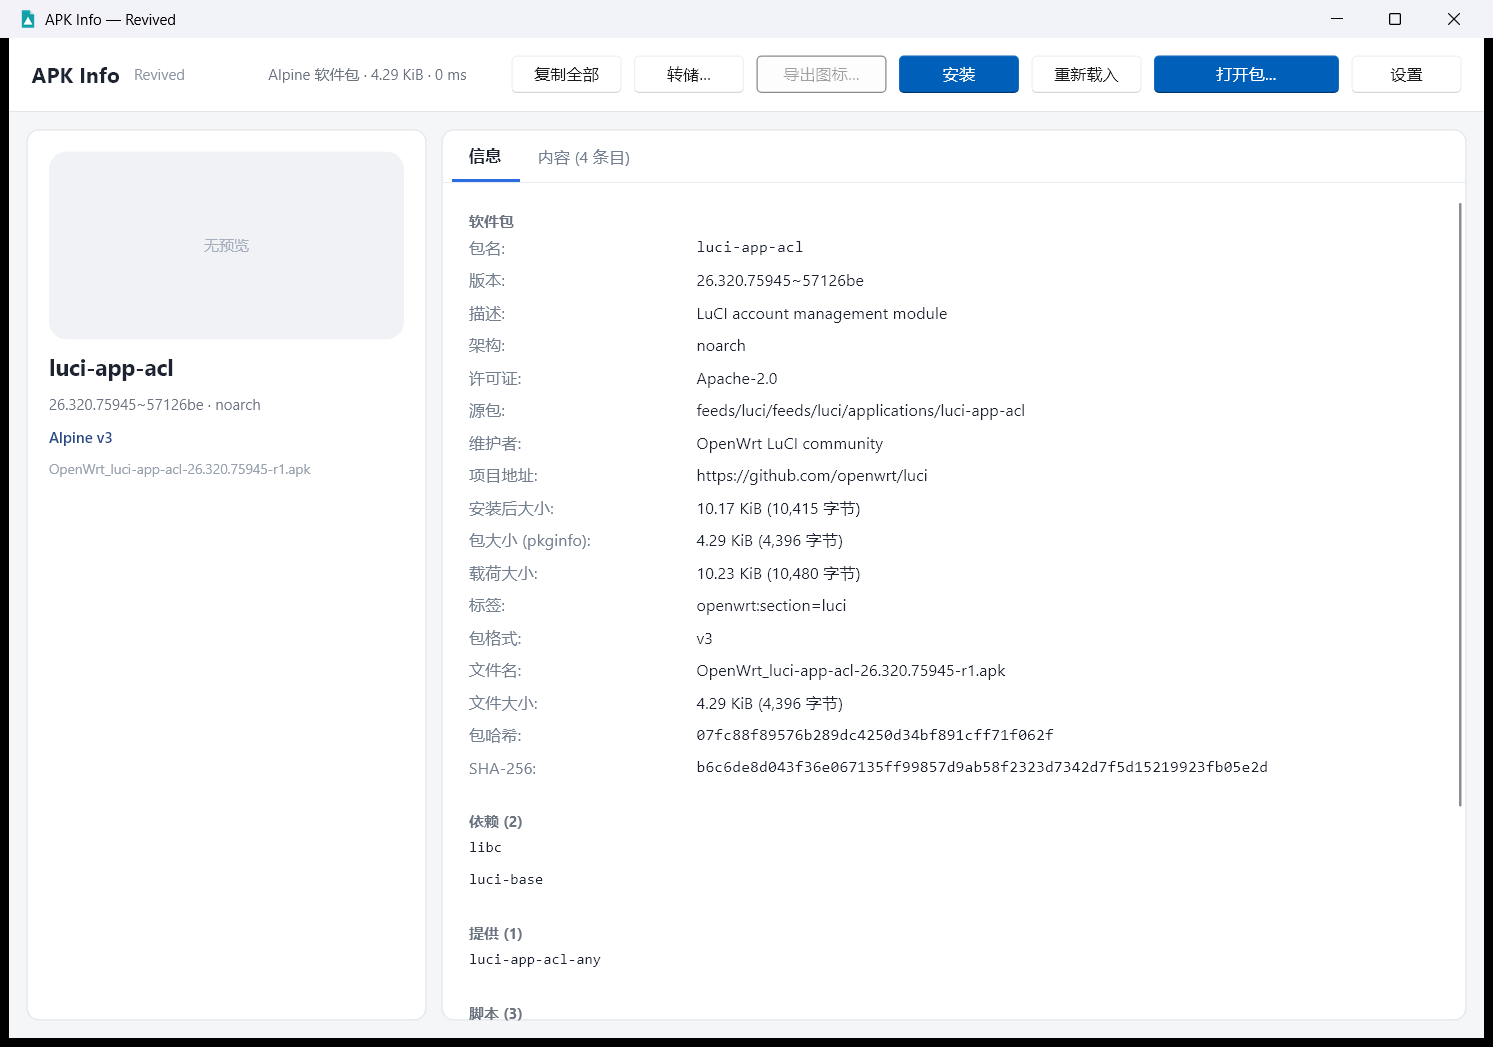
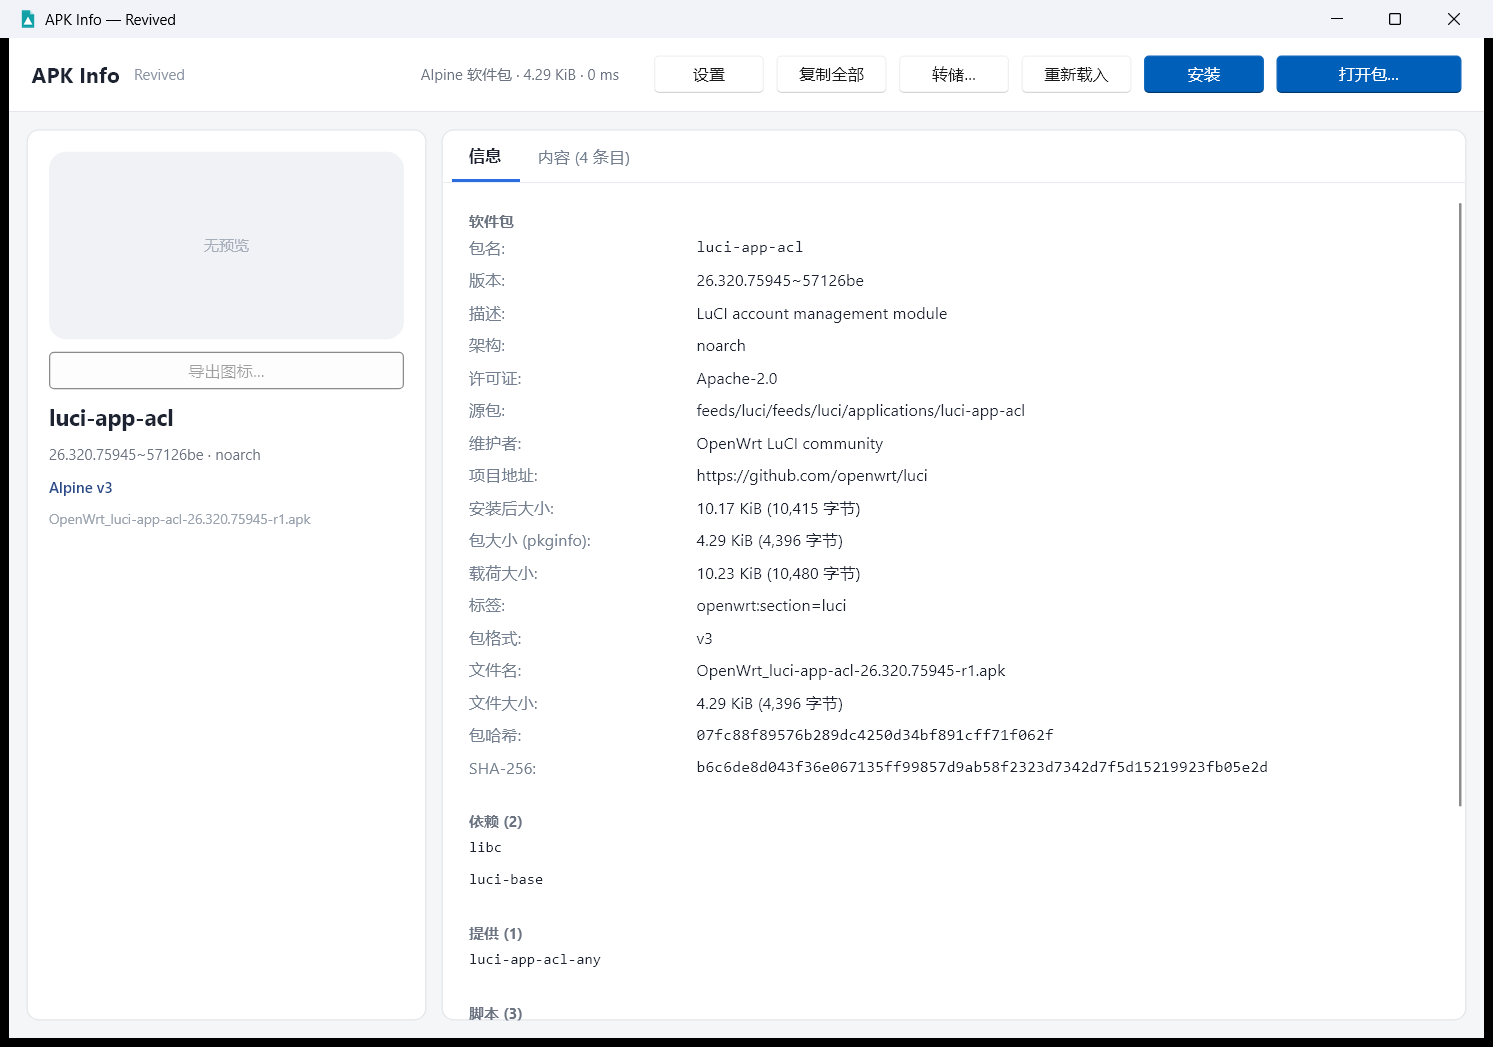
Tidy the toolbar and the settings page, finish the Chinese UI
- the export button moved out of the toolbar into the identity card, right under
  the icon preview it acts on
- the toolbar is reordered: Settings on the left, Open package on the right
  (settings / copy all / dump / reload / install / open)
- the settings page gives adb a card of its own before the two install sections,
  instead of trailing the Alpine command, which read like a swapped field
- the "nothing loaded" texts live in one function that is re-applied when the
  language changes, and the contents tab is translated before a package is open
  (both used to stay English in the Chinese UI)
- the config file no longer beats --lang / APKINFO_LANG: the preference is applied
  before the command line, so a forced language really is forced
- tests: a new empty-state phase in ui_flow, precedence checks in the i18n
  module, and the UI scripts restore the developer's config and language
  preference when they finish

diff --git a/src/main.cpp b/src/main.cpp
@@ -577,8 +577,10 @@ void position_viewer_over_main(slint::ComponentHandle<TextViewer>& viewer, int a
     }
 }
 
-// apply_chrome is defined further down; the install/settings helpers below use it.
+// apply_chrome / apply_empty_state are defined further down; the install and settings
+// helpers below use them.
 void apply_chrome(MainWindow& ui);
+void apply_empty_state(MainWindow& ui);
 
 // ---------------------------------------------------------------------------
 // Install page and settings page
@@ -1003,7 +1005,11 @@ void show_settings_window(std::shared_ptr<ViewState> state, slint::ComponentHand
             state->adb_path = apkinfo::adb::find_adb(config.install.adb_path);
 
             apply_chrome(*host);
-            if (state->loaded) apply_view(*host, *state);
+            if (state->loaded) {
+                apply_view(*host, *state);
+            } else {
+                apply_empty_state(*host);
+            }
             if (state->install_window) apply_install_chrome(**state->install_window, *state);
             apply_settings_chrome(*window, *state);
             window->hide();
@@ -1072,6 +1078,17 @@ void apply_chrome(MainWindow& ui) {
     ui.set_label_settings(slint::SharedString(tr("Settings")));
 }
 
+// The texts of the "no package" state. Kept in one place because they have to be
+// re-applied when the language changes while nothing is loaded: apply_view is what
+// normally pushes localised text, and it does not run without a document.
+void apply_empty_state(MainWindow& ui) {
+    ui.set_status_text(slint::SharedString(tr("Open an .apk, .apks, .apkm or Alpine .apk package")));
+    ui.set_app_title(slint::SharedString(tr("Nothing loaded")));
+    ui.set_app_subtitle(slint::SharedString(tr("Use “Open package…” or pass a path on the command line.")));
+    // the tab label would otherwise stay at its English default
+    ui.set_contents_title(slint::SharedString(tr("Contents")));
+}
+
 // ---------------------------------------------------------------------------
 // Loading
 // ---------------------------------------------------------------------------
@@ -1095,8 +1112,18 @@ void start_hash(ViewState* state, MainWindow* ui) {
 }  // namespace
 
 int run(int argument_count, wchar_t** arguments) {
-    // --lang zh|en (also honoured through APKINFO_LANG) picks the UI language;
+    // The config file holds the language preference, and it has to be applied *first*:
+    // set_preference() clears the "forced for this run" flag, so applying it afterwards
+    // would silently undo --lang / APKINFO_LANG.
+    apkinfo::i18n::set_preference(static_cast<apkinfo::i18n::Preference>(apkinfo::config().language));
+
+    // APKINFO_LANG forces the language for this run, then --lang overrides even that;
     // anything else is treated as the package path to open.
+    if (const char* forced = std::getenv("APKINFO_LANG"); forced && *forced) {
+        apkinfo::i18n::Language parsed = apkinfo::i18n::current();
+        if (apkinfo::i18n::from_code(forced, &parsed)) apkinfo::i18n::set_language(parsed);
+    }
+
     std::string path_to_open;
     for (int i = 1; i < argument_count; ++i) {
         const std::string argument = to_utf8(arguments[i]);
@@ -1116,10 +1143,6 @@ int run(int argument_count, wchar_t** arguments) {
         }
         if (path_to_open.empty()) path_to_open = argument;
     }
-
-    // The config file decides the language preference; --lang / APKINFO_LANG still win
-    // for this run because set_language() marks itself as an override.
-    apkinfo::i18n::set_preference(static_cast<apkinfo::i18n::Preference>(apkinfo::config().language));
 
     auto handle = MainWindow::create();
     MainWindow* ui = &*handle;
@@ -1311,10 +1334,7 @@ int run(int argument_count, wchar_t** arguments) {
     if (!path_to_open.empty()) {
         load(path_to_open);
     } else {
-        ui->set_status_text(slint::SharedString(tr("Open an .apk, .apks, .apkm or Alpine .apk package")));
-        ui->set_app_title(slint::SharedString(tr("Nothing loaded")));
-        ui->set_app_subtitle(slint::SharedString(tr("Use “Open package…” or pass a path on the command line.")));
-
+        apply_empty_state(*ui);
         ui->set_has_icon(false);
         ui->set_rows(std::make_shared<slint::VectorModel<InfoRowItem>>(std::vector<InfoRowItem>{}));
         set_window_icon(ContainerKind::Unknown);

diff --git a/tests/i18n/test.cpp b/tests/i18n/test.cpp
@@ -65,6 +65,18 @@ int main() {
     check(std::strcmp(tr("a string that is not in the dictionary"), "a string that is not in the dictionary") == 0,
           "unknown strings fall back to English");
 
+    // A forced language (--lang / APKINFO_LANG) wins over the saved preference, but only
+    // until the preference is set again - set_preference() is what the settings page
+    // calls, and picking there must supersede the command line.
+    set_preference(Preference::Chinese);
+    check(current() == Language::Chinese, "the saved preference decides");
+    set_language(Language::English);
+    check(current() == Language::English, "a forced language beats the saved preference");
+    check(std::strcmp(tr("Version code"), "Version code") == 0, "the forced language is used for lookups");
+    set_preference(Preference::Chinese);
+    check(current() == Language::Chinese, "setting the preference again supersedes the override");
+    set_preference(Preference::Auto);
+
     // Language parsing
     Language parsed = Language::English;
     check(from_code("zh", &parsed) && parsed == Language::Chinese, "from_code(zh)");

diff --git a/README.md b/README.md
@@ -105,10 +105,11 @@ git push origin v1.0.0        # 触发发布
 
 ## 使用
 
+* 工具栏从右到左是 **打开包…**、**安装**、**重新载入**、**转储…**、**复制全部**、**设置**（最左）。
 * **打开包**：命令行传入路径，或点工具栏 *打开包…*；可直接从资源管理器拖进窗口。
 * **复制全部**：把整份报告（含文件清单）复制到剪贴板，按钮上会显示"已复制"。
 * **转储…**：保存 `.txt` 或 `.json` 报告。
-* **导出图标…**：把解析出的启动图标写成 PNG（未加载包或无图标时禁用）。
+* **导出图标…**：图标框正下方的按钮，把解析出的启动图标写成 PNG（未加载包或无图标时禁用）。
 * **重新载入**：重读当前文件（内容被替换时用）。
 * **显示全部 (N)**：长列表（权限、语言等）前 8 条按普通行显示，其余进独立窗口。
 * 信息行里的值可以**按行选中复制**（每行一个只读输入框，选区不会跨行）。
@@ -182,12 +183,12 @@ Alpine : adb push "{path}" /tmp/{file_name} && adb shell apk add --allow-untrust
 
 ## 设置
 
-工具栏最右的 **设置** 按钮打开设置页（语言也从工具栏移到了这里）：
+工具栏最左的 **设置** 按钮打开设置页（语言也从工具栏移到了这里）：
 
 * **语言**：跟随系统 / 中文 / English。
+* **adb**：adb 路径，留空则自动搜索（Android 与 Alpine 共用，所以单独一张卡片）。
 * **Android 安装方式**：内置安装器 / 外部命令，各自带命令行输入框。
 * **Alpine 安装命令**：Alpine 包只能用外部命令。
-* **adb 路径**：留空则自动搜索。
 * **占位符参考**与**当前包的展开预览**：改完命令立刻能看到它会对当前包变成什么。
 
 保存后写回 `apkinfo-config.json` 并立即生效（语言会重渲染当前文档，不重读文件）。
@@ -212,16 +213,16 @@ Alpine : adb push "{path}" /tmp/{file_name} && adb shell apk add --allow-untrust
 ```
 
 * 启动时读取；文件不存在则写入默认值（带说明注释），保证永远有东西可改。
-* `language`：`auto`（跟随 Windows 界面语言）/ `en` / `zh`。工具栏下拉菜单会写入这个字段，重启后保持。
+* `language`：`auto`（跟随 Windows 界面语言）/ `en` / `zh`。设置页会写入这个字段，重启后保持。
 * `androidVersions`：SDK 级别 → 显示名（`"36": "16 (Baklava)"` 可以，`"34": 14` 这种纯数字也行）。文件里没有的级别回落到内置表；同键后者覆盖前者；格式错误的条目跳过。
 * **坏文件不会被覆盖**：保留默认值、在"备注"区提示问题，并原样保留文件让你修。
 * 删除该文件即恢复默认。旧格式的 `android-versions.txt` 会在首次启动时自动迁移过来。
 
 ## 语言 / Localisation
 
-工具栏的下拉菜单有三项：**跟随系统 / System**、中文、English，默认"跟随系统"（读 Windows 界面语言），选择写入 `apkinfo-config.json` 后持久化。
+设置页的语言下拉有三项：**跟随系统 / System**、中文、English，默认"跟随系统"（读 Windows 界面语言），保存后写入 `apkinfo-config.json` 并立即重渲染当前文档（不重读文件）。
 
-* 所有面向用户的文案都走 `TR("English source")`（字典在 `src/i18n.cpp`，169 条，测试会校验无重复键且译文与原文不同）。
+* 所有面向用户的文案都走 `TR("English source")`（字典在 `src/i18n.cpp`，229 条，测试会校验无重复键且译文与原文不同）。
 * `--lang zh|en` 与 `APKINFO_LANG` 环境变量仍可**单次覆盖**（测试即用此方式）。
 * 解析器输出的诊断信息（`Package::warnings`、`apk-tools` 层错误）有意保持英文：它们描述的是被读的文件，不是界面。
 
@@ -279,7 +280,7 @@ cd tests
 | axml | 453 行对拍 | 与 aapt2 的 `xmltree` 输出逐行比对 |
 | arsc | 53 | 资源表解析、42 276 个 id 交叉核对、密度/语言配置选择 |
 | alpine | 104 | v3 `adb` 与 v2 tar 解析、依赖关系、签名块 |
-| i18n | 469 | 字典完整性、无重复键、译文与原文不同 |
+| i18n | 473 | 字典完整性、无重复键、译文与原文不同 |
 | tree | 40 | 树构建：子节点连续、子树规模、路径拼装 |
 | report | 29 | 文本与 JSON 报告格式 |
 | versions | 12 | 旧格式版本表解析、内置表回落 |

diff --git a/README.en.md b/README.en.md
@@ -257,14 +257,16 @@ Alpine : adb push "{path}" /tmp/{file_name} && adb shell apk add --allow-untrust
 
 ## Settings
 
-The **Settings** button on the far right of the toolbar opens the settings page (the
+The **Settings** button - the leftmost one in the toolbar, which reads (from the right)
+Open package…, Install, Reload, Dump…, Copy all, Settings - opens the settings page (the
 language moved here from the toolbar):
 
 * **Language**: follow the system / 中文 / English.
+* **adb**: the adb path, empty means "look it up" (shared by Android and Alpine, so it has
+  a card of its own).
 * **Android install method**: built-in installer or external command, each with its
   command line.
 * **Alpine install command**: Alpine packages can only use an external command.
-* **adb path**: empty means "look it up".
 * **Placeholder reference** and a **preview for the open package**, so a command can be
   checked before saving.
 
@@ -306,12 +308,13 @@ rebuild:
 
 ## Localisation
 
-The toolbar has a language dropdown with three entries — *follow the system*, 中文,
-English — and the choice is stored in `apkinfo-config.json`, so the default is "follow the
-Windows UI language" until you pick something else.
+The settings page has a language dropdown with three entries — *follow the system*,
+中文, English — and the choice is stored in `apkinfo-config.json`, so the default is
+"follow the Windows UI language" until you pick something else. Saving re-renders the
+open document immediately (the package is not re-read).
 
 * Every user-visible string goes through `TR("English source")`; the dictionary in
-  `src/i18n.cpp` holds 169 entries, and the test suite asserts there are no duplicate
+  `src/i18n.cpp` holds 229 entries, and the test suite asserts there are no duplicate
   keys and that every translation differs from its source string.
 * `--lang zh|en` and the `APKINFO_LANG` environment variable still override the preference
   **for one run**, which is what the tests use.
@@ -397,7 +400,7 @@ Unit/parser tests (`run_tests.ps1`, 9 modules):
 | axml | 453 lines | line-by-line cross-check against aapt2's `xmltree` output |
 | arsc | 53 | resource table parsing, 42 276 ids cross-checked, density/locale selection |
 | alpine | 104 | v3 `adb` and v2 tar parsing, dependency relations, signature blocks |
-| i18n | 469 | dictionary completeness, no duplicate keys, translations differ from sources |
+| i18n | 473 | dictionary completeness, no duplicate keys, translations differ from sources |
 | tree | 40 | tree building: contiguous children, subtree sizes, path assembly |
 | report | 29 | text and JSON report formats |
 | versions | 12 | legacy version-table parsing, built-in fallback |
